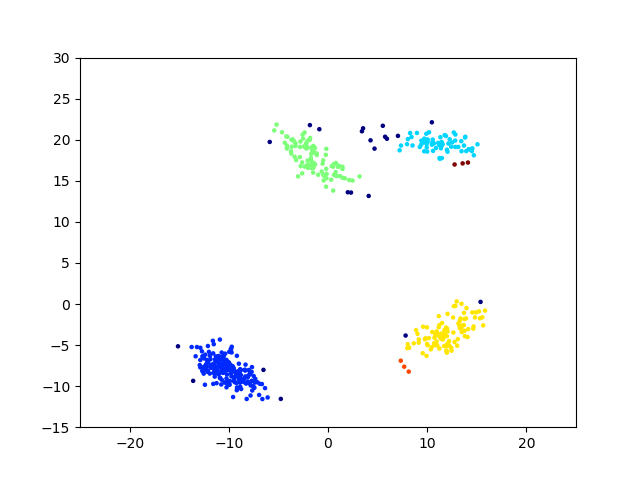
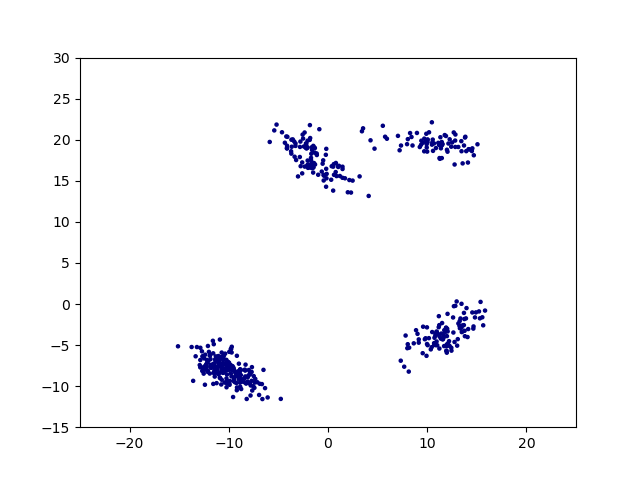
knn bugs, still broken though

diff --git a/code/knn.py b/code/knn.py
@@ -20,25 +20,27 @@ class KNN:
         # return N by T array with pairwise squared Euclidean distances
         dist_squared = utils.euclidean_dist_squared(self.X, Xtest)
         # sort dist_squared by squared distance
-        idx = np.argsort(dist_squared, axis=1)
+        idx = np.argsort(dist_squared, axis=0)
         # restrict to k nearest in X
-        idx_k = idx[:,:self.k]
+        # idx_k = idx[:,:self.k]
 
-        # print(idx_k)
         y_pred = []
-        
-        # iterate through X rows data
-        for i in range(0,Xtest.size):
+      
+        n, d = Xtest.shape
+
+        # iterate through each test entry
+        for i in range(0, n):
           # y values of neighbors
           y_neighbors = []
           # iterate through the neighbor
           for j in range(0,self.k):
             # add y associated with k-th neighbor
-            y_neighbors.append(self.y[idx_k[j][i]])
+            idx_neighbor = idx[j][i]
+            y_neighbors = np.append(y_neighbors, self.y[idx_neighbor])
           # get most common y
           y_mode = stats.mode(y_neighbors)
           # add most common label to predicted values
-          y_pred.append(y_mode)
+          y_pred = np.append(y_pred, y_mode)
 
         # print(y_pred)
         return np.array(y_pred)

diff --git a/code/main.py b/code/main.py
@@ -207,9 +207,10 @@ if __name__ == '__main__':
         k = 1
         model = KNN(k)
         model.fit(X, y)
-        y_pred = model.predict(Xtest)
+        y_pred = model.predict(X)
         err_tr = np.mean(y_pred != y)
         err_te = np.mean(y_pred != ytest)
+
 
         # utils.plotClassifier(model, Xtest, ytest)
 
@@ -305,7 +306,7 @@ if __name__ == '__main__':
     elif question == '5.3':
         X = load_dataset('clusterData2.pkl')['X']
 
-        model = DBSCAN(eps=1, min_samples=3)
+        model = DBSCAN(eps=1000, min_samples=10)
         y = model.fit_predict(X)
 
         print("Labels (-1 is unassigned):", np.unique(model.labels_))
